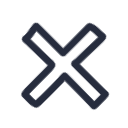
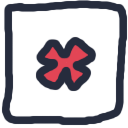
:bento: replace ui art

diff --git a/sciter/css/main.css b/sciter/css/main.css
@@ -12,7 +12,7 @@ html {
 }
 
 body {
-  background: #6fca1c;
+  background: #b3b3b3;
 }
 
 html.transparent,
@@ -214,6 +214,11 @@ button.mouth-image {
   position: relative;
 }
 
+.border-default {
+  position: relative;
+}
+
+
 button.mouth-image.border-default {
   background-image: url('this://app/png/controls/buttons/top/avatar-change/border/default.png');
 }
@@ -233,6 +238,7 @@ button.mouth-image::before {
   width: height(100%);
   height: 66%;
   background-size: 100% 100%;
+  background-color: beige;
   z-index: -1;
 }
 
